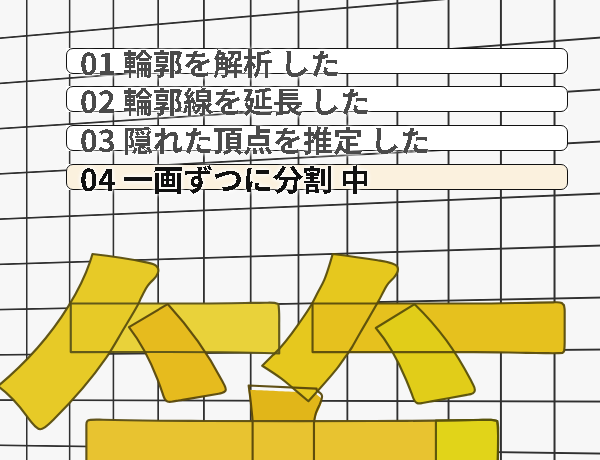
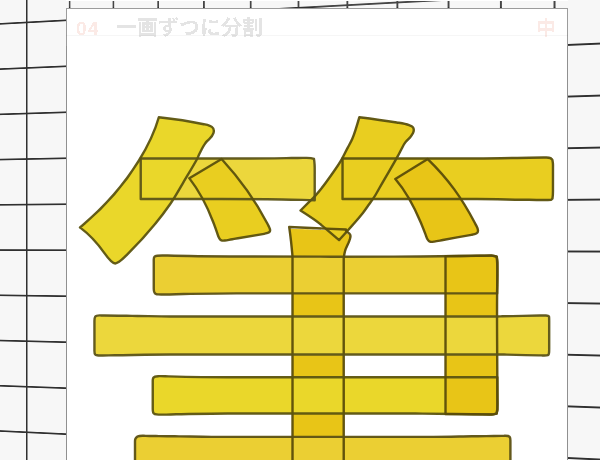
scene-e: fix end-card structure and hero stroke source
Remove the duplicate Logo render (chrome already shows it in the
left column), re-crop stale recap bands from current PV-Master,
switch hero strokes to verified rest pose (PV glyph FUDE, IoU
0.9998), and replace index/mod scatter with per-stroke PCA-based
slide/rotation. Settled hold preserved at f440+.

Generated with [Devin](https://devin.ai)

diff --git a/video/src/scenes/SceneE.tsx b/video/src/scenes/SceneE.tsx
@@ -10,14 +10,6 @@ import {
   tintedStrokes,
   type StrokeItem,
 } from "./glyph.tsx";
-import { CompView, type RenderCtx } from "../ae/layer.tsx";
-import {
-  GENERATED_COMPS,
-  GENERATED_FOOTAGE,
-  compByName,
-  mattePairs,
-} from "../ae/project.ts";
-import { AE_RENDER_CAMERA } from "../design/rig.ts";
 import { STAGE_MIN_X } from "../layout/zones.ts";
 
 // Scene E [15.458, 20) closing, v13 art-direction two-beat structure
@@ -29,11 +21,13 @@ import { STAGE_MIN_X } from "../layout/zones.ts";
 //     converges back into the solid black kanji hero (question -> answer
 //     ring closing the film).
 //   Beat 2 — END CARD (~f417-f479, held to end): QUIET resolution — the
-//     OFFICIAL Restro logo artwork (dumped AE "Logo" comp, rendered through
-//     the same CompView interpreter, NOT a generic-font re-typeset), the
-//     product descriptor, and BOOTH + URL as one clear CTA hierarchy. No
-//     card chrome, no rounded corners, no shadows, product name appears
-//     once (inside the logo artwork itself).
+//     product descriptor and BOOTH + URL as one clear CTA hierarchy. No
+//     card chrome, no rounded corners, no shadows. The Restro brand
+//     lockup is NOT re-drawn here: the confirmed chrome layer already
+//     carries it in the left column for the whole film, and duplicating
+//     the same Logo artwork on the right was rejected as 二重ロゴ
+//     (docs/design/assets/e-end-card-clean.svg: 左＝ブランド標章 /
+//     右＝復元された造形と購買導線).
 //
 // Left column: the dumped description comp's E-section product copy is
 // zeroed centrally in masterPatch (layers in >=15.44s), and the persistent
@@ -77,19 +71,11 @@ const HERO_OUT: [number, number] = [17.32, 17.5];
 
 // --- end card ---
 const CARD_IN = 17.45;
-
-// --- official logo artwork (dumped AE "Logo" comp = Restro wordmark with
-// red-accent R + 筆画復元， vector art — not typeset text) ---
-const LOGO_COMP = compByName("Logo");
-const LOGO_CTX: RenderCtx = {
-  comps: GENERATED_COMPS,
-  footage: GENERATED_FOOTAGE,
-  camera: AE_RENDER_CAMERA,
-  matteMap: mattePairs(),
-};
-const LOGO_SCALE = 1.3; // 416x260 -> ~541x338
 const CARD_LEFT = 505;
-const CARD_TOP = 268;
+// Without the logo block the CTA group is ~210px tall; CARD_TOP centers it
+// on the stage's optical middle (~y530) instead of hugging the old logo
+// baseline.
+const CARD_TOP = 425;
 
 // scene-C work02 palette (Restro step hues) — the "multicolor separated
 // strokes" the payoff returns with
@@ -101,14 +87,21 @@ const PALETTE: [number, number, number][] = [
 ];
 const INK: [number, number, number] = [0.07, 0.07, 0.08];
 
-// --- shared stroke data (Baseline FUDE = the same 筆 used across B/C) ---
+// --- shared stroke data ---
+// Source: "PV glyph" (06) FUDE S01..S13 at poseT 2 — the verified zero-
+// displacement rest pose (assembled IoU 0.9998 vs FUDE outline base,
+// docs/design/data/pv-glyph-fude.composition.json). The previous "Baseline"
+// (01) source was rejected: its dumped Position.value carries a baked
+// ~0.73 easeOut scatter offset, so even the "assembled" black kanji never
+// reached the true rest pose (same root cause documented for SceneC,
+// docs/design/03-assets-catalog.md §3.2).
 let cached: {
   comp: ReturnType<typeof compStrokes>["comp"];
   strokes: StrokeItem[];
   colorStrokes: StrokeItem[];
   blackStrokes: StrokeItem[];
-  cx: number;
-  cy: number;
+  // hero fit transform string (measured bbox -> stage target)
+  heroFit: string;
   rank: number[];
   scatter: { dx: number; dy: number; rot: number }[];
 } | null = null;
@@ -120,13 +113,61 @@ function strokeOrderIndex(name: string): number {
   return m ? parseInt(m[1], 10) : 99;
 }
 
+// Principal axis of a stroke's comp-space vertices (unit vector along the
+// major PCA direction). The separation law below constrains each stroke's
+// displacement to the direction PERPENDICULAR to this axis — horizontal
+// bars part vertically, verticals horizontally, diagonals along their own
+// normal — so the exploded field keeps the glyph's stroke-direction
+// structure instead of an index-ordered radial fan.
+function principalAxis(points: [number, number][]): [number, number] {
+  let mx = 0,
+    my = 0;
+  for (const [x, y] of points) {
+    mx += x;
+    my += y;
+  }
+  mx /= points.length;
+  my /= points.length;
+  let sxx = 0,
+    sxy = 0,
+    syy = 0;
+  for (const [x, y] of points) {
+    const dx = x - mx,
+      dy = y - my;
+    sxx += dx * dx;
+    sxy += dx * dy;
+    syy += dy * dy;
+  }
+  const ang = 0.5 * Math.atan2(2 * sxy, sxx - syy);
+  return [Math.cos(ang), Math.sin(ang)];
+}
+
+// Peak separated displacement in comp units (~205px on screen after the
+// hero fit scale). Replaces the old 80-220px index/mod fan.
+const SLIDE_MAX = 170;
+// Strokes smaller than this fraction of the char width in BOTH bbox dims
+// are dot/stub accents: they stay near their rest anchor (static-anchor
+// class from docs/design/07-motion-design.md §4) with reduced travel and
+// no rotation.
+const DOT_FRAC = 0.18;
+// Peak rotation for traveling strokes, degrees — pivot is each stroke's
+// own measured center (StrokeField rotates about s.center).
+const ROT_MAX = 10;
+// On-screen char width target: preserves the Baseline-tuned hero size
+// (726px bbox * 1.15 scale = ~835px) on the new measured source.
+const HERO_TARGET_W = 835;
+// hero placement inside the right-stage clip window (x480-1080): large
+// enough to bleed the right frame edge like the scene-A kanji hero, while
+// the clip keeps separated strokes out of the left brand column
+const HERO_C: [number, number] = [375, 545];
+
 function buildData() {
   if (cached) return cached;
-  const { comp, strokes } = compStrokes("Baseline", {
+  const { comp, strokes } = compStrokes("PV glyph", {
     pattern: /^FUDE S\d+/,
-    poseT: 0.5,
+    poseT: 2,
   });
-  if (!strokes.length) throw new Error("Baseline FUDE strokes not found");
+  if (!strokes.length) throw new Error("PV glyph FUDE strokes not found");
   let minX = 1e9,
     minY = 1e9,
     maxX = -1e9,
@@ -140,6 +181,7 @@ function buildData() {
     }
   const cx = (minX + maxX) / 2;
   const cy = (minY + maxY) / 2;
+  const charW = maxX - minX;
 
   const rank = new Array(strokes.length).fill(0);
   strokes
@@ -149,54 +191,76 @@ function buildData() {
       rank[o.i] = r;
     });
 
-  // separated-stroke field: each stroke displaced outward from the char
-  // center with tangential jitter and a lean — reads as "exploded" pen
-  // strokes, not a broken glyph
+  // Structure-aware separated-stroke field (replaces the index/mod fan):
+  //   slide dir = perpendicular to the stroke's own principal axis,
+  //   signed outward from the char center;
+  //   travel    = SLIDE_MAX * |projection of (center - charCenter) onto
+  //               slide| / maxProjection — strokes farther from the spine
+  //               along their parting axis travel farther, strokes on the
+  //               axis stay anchored, and the field stays mirror-symmetric
+  //               about the char's own structure rather than the array
+  //               order;
+  //   rotation  = small tilt proportional to travel, pivoting on the
+  //               stroke's real centroid — no index parity, no mod jitter.
+  const geom = strokes.map((s) => {
+    const [ax, ay] = principalAxis(s.points);
+    // perpendicular candidates; pick the one pointing away from center
+    let sx = -ay,
+      sy = ax;
+    const rx = s.center[0] - cx,
+      ry = s.center[1] - cy;
+    if (sx * rx + sy * ry < 0) {
+      sx = -sx;
+      sy = -sy;
+    }
+    return { slide: [sx, sy] as [number, number], rx, ry };
+  });
+  const projections = geom.map((g) => Math.abs(g.rx * g.slide[0] + g.ry * g.slide[1]));
+  const maxProj = Math.max(...projections, 1);
+  const dotMax = DOT_FRAC * charW;
+
   const scatter = strokes.map((s, i) => {
-    const dx = s.center[0] - cx;
-    const dy = s.center[1] - cy;
-    const len = Math.hypot(dx, dy) || 1;
-    // moderate separation: the exploded char must stay recognizable as the
-    // 筆 hero (r1 review: 120-290px offsets read as abstract fragments)
-    const dist = 80 + ((i * 89) % 140); // 80-220 comp px outward
-    const swing = ((i * 47) % 60) - 30;
-    const tx = -dy / len;
-    const ty = dx / len;
+    const g = geom[i];
+    const bw = s.bbox[2] - s.bbox[0];
+    const bh = s.bbox[3] - s.bbox[1];
+    const isDot = bw < dotMax && bh < dotMax;
+    const reach = projections[i] / maxProj;
+    const dist = SLIDE_MAX * reach * (isDot ? 0.4 : 1);
+    // rotation sign follows which way the slide axis sits relative to the
+    // radial direction — strokes unfurl outward, not by array parity
+    const cross = g.slide[0] * g.ry - g.slide[1] * g.rx;
+    const side = cross === 0 ? (s.center[0] < cx ? -1 : 1) : Math.sign(cross);
     return {
-      dx: (dx / len) * dist + tx * swing,
-      dy: (dy / len) * dist + ty * swing,
-      rot: (i % 2 === 0 ? 1 : -1) * (10 + (i % 4) * 6), // 10-28 deg
+      dx: g.slide[0] * dist,
+      dy: g.slide[1] * dist,
+      rot: isDot ? 0 : reach * ROT_MAX * side,
     };
   });
+
+  const heroS = HERO_TARGET_W / charW;
+  const heroFit = `translate(${HERO_C[0] - cx * heroS}px,${
+    HERO_C[1] - cy * heroS
+  }px) scale(${heroS})`;
 
   cached = {
     comp,
     strokes,
+    // proof color follows writing order (rank), not dump array order —
+    // same convention as SceneC's proof palette
     colorStrokes: tintedStrokes(strokes, (_s, i) =>
-      PALETTE[(i * 2 + 1) % PALETTE.length],
+      PALETTE[rank[i] % PALETTE.length],
     ),
     blackStrokes: tintedStrokes(strokes, () => INK),
-    cx,
-    cy,
+    heroFit,
     rank,
     scatter,
   };
   return cached;
 }
 
-// char bbox in comp space (same measured range as SceneC)
-const BB = { minX: 583, minY: 283, maxX: 1309, maxY: 997 };
-// hero placement inside the right-stage clip window (x480-1080): large
-// enough to bleed the right frame edge like the scene-A kanji hero, while
-// the clip keeps separated strokes out of the left brand column
-const HERO_C: [number, number] = [375, 545];
-const HERO_S = 1.15;
-const HERO_FIT = `translate(${HERO_C[0] - ((BB.minX + BB.maxX) / 2) * HERO_S}px,${
-  HERO_C[1] - ((BB.minY + BB.maxY) / 2) * HERO_S
-}px) scale(${HERO_S})`;
-
 export const SceneE: React.FC<{ t: number }> = ({ t }) => {
-  const { comp, colorStrokes, blackStrokes, rank, scatter } = buildData();
+  const { comp, colorStrokes, blackStrokes, heroFit, rank, scatter } =
+    buildData();
 
   // --- recap window: visible ~f371-379, gone before the payoff arrives ---
   const recapIn = easeOutCubic(seg(t, T0, T0 + 0.12));
@@ -224,10 +288,11 @@ export const SceneE: React.FC<{ t: number }> = ({ t }) => {
     if (!d) return undefined;
     const g = gatherP(i);
     const k = 1 - g;
-    // gentle drift while separated so the "peak" hold never freezes
+    // gentle drift while separated so the "peak" hold never freezes;
+    // phase follows writing order, not array index
     const drift =
       k *
-      Math.sin(t * 1.25 + i * 1.7) *
+      Math.sin(t * 1.25 + rank[i] * 1.7) *
       7;
     const [cx, cy] = s.center;
     return (
@@ -243,21 +308,21 @@ export const SceneE: React.FC<{ t: number }> = ({ t }) => {
   // Tightened (was logo .05/.5, desc .22/.4, booth .38/.4, url .52/.4):
   // the old pacing left the CTA ramp running until ~18.37s (f441), giving
   // only ~1.6s of settled hold before the comp ends — short of the §3.4
-  // "2s+ quiet settle / CTA readable ~f427-480" intent. Same entrance
-  // order and easing, just compressed so the group is readable earlier.
+  // "2s+ quiet settle / CTA readable ~f427-480" intent. The duplicated
+  // logo block is gone, so the descriptor now leads the group; same
+  // top-down order and easing, still fully settled by ~f434.
   const itemP = (delay: number, dur = 0.4) =>
     t >= CARD_IN + delay ? easeOutCubic(seg(t, CARD_IN + delay, CARD_IN + delay + dur)) : 0;
-  const logoP = itemP(0.0, 0.45);
-  const descP = itemP(0.15, 0.35);
-  const boothP = itemP(0.28, 0.35);
-  const urlP = itemP(0.4, 0.35);
+  const descP = itemP(0.0, 0.4);
+  const boothP = itemP(0.15, 0.35);
+  const urlP = itemP(0.28, 0.35);
 
   // Left-column closing copy moved to video/src/layout/LeftCopy.tsx
   // (Issue #30): the left information column is confirmed layout owned by
   // the chrome layer, not scene content. It hard-cuts at the E boundary.
   const coverOn = t >= T0;
 
-  const cardOn = logoP > 0 || descP > 0 || boothP > 0 || urlP > 0;
+  const cardOn = descP > 0 || boothP > 0 || urlP > 0;
   if (!coverOn && recapP <= 0 && heroP <= 0 && !cardOn) return null;
 
   return (
@@ -352,7 +417,7 @@ export const SceneE: React.FC<{ t: number }> = ({ t }) => {
               top: 0,
               width: comp.width,
               height: comp.height,
-              transform: HERO_FIT,
+              transform: heroFit,
               transformOrigin: "0 0",
             }}
           >
@@ -361,7 +426,7 @@ export const SceneE: React.FC<{ t: number }> = ({ t }) => {
             <StrokeField
               comp={comp}
               strokes={colorStrokes}
-              poseT={0.5}
+              poseT={2}
               strokeOpacity={strokeOpacity}
               strokeTransform={strokeTransform}
               opacity={1 - colorCross}
@@ -369,7 +434,7 @@ export const SceneE: React.FC<{ t: number }> = ({ t }) => {
             <StrokeField
               comp={comp}
               strokes={blackStrokes}
-              poseT={0.5}
+              poseT={2}
               strokeOpacity={strokeOpacity}
               strokeTransform={strokeTransform}
               opacity={colorCross}
@@ -378,11 +443,13 @@ export const SceneE: React.FC<{ t: number }> = ({ t }) => {
         </div>
       )}
 
-      {/* ---- end card: official logo artwork + one CTA hierarchy ----
-          Logo comp = the real Restro lockup artwork (wordmark + 筆画復元）;
-          the product name lives inside the artwork, so no typeset
-          "Restro"/"筆画復元" is repeated here. */}
-      {cardOn && LOGO_COMP && (
+      {/* ---- end card: product descriptor + one CTA hierarchy ----
+          No brand artwork here: the confirmed chrome layer already carries
+          the Restro Logo lockup in the left column for the whole film, so
+          re-drawing it on the right stage duplicated the same mark
+          (e-end-card-clean.svg role split). The right stage owns the
+          restored glyph and the purchase path only. */}
+      {cardOn && (
         <div
           style={{
             position: "absolute",
@@ -392,31 +459,6 @@ export const SceneE: React.FC<{ t: number }> = ({ t }) => {
             fontFamily: "'Noto Sans JP', 'Hiragino Sans', sans-serif",
           }}
         >
-          {/* official logo artwork — outer box reserves the SCALED height
-              (CSS transforms do not affect layout) so following lines
-              cannot overlap the artwork */}
-          <div
-            style={{
-              width: 416 * LOGO_SCALE,
-              height: 260 * LOGO_SCALE,
-              marginBottom: 30,
-              opacity: logoP,
-              transform: `translateY(${(1 - logoP) * 18}px)`,
-              overflow: "visible",
-            }}
-          >
-            <div
-              style={{
-                width: 416,
-                height: 260,
-                transform: `scale(${LOGO_SCALE})`,
-                transformOrigin: "0 0",
-              }}
-            >
-              <CompView comp={LOGO_COMP} ctx={LOGO_CTX} t={0.5} isRoot={false} />
-            </div>
-          </div>
-
           {/* what it is — product descriptor, secondary weight */}
           <div
             style={{
